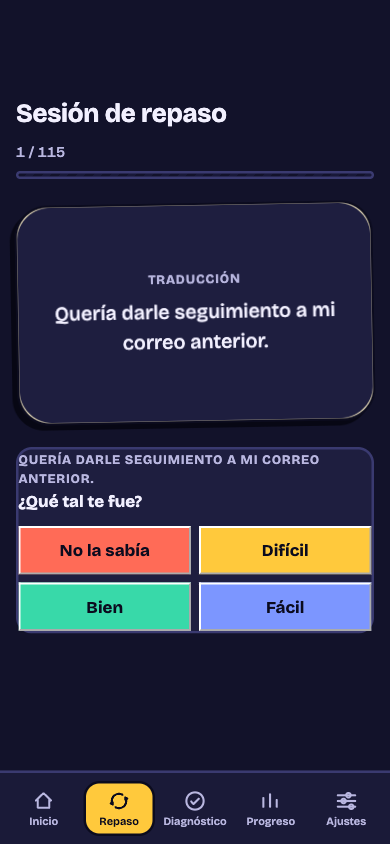
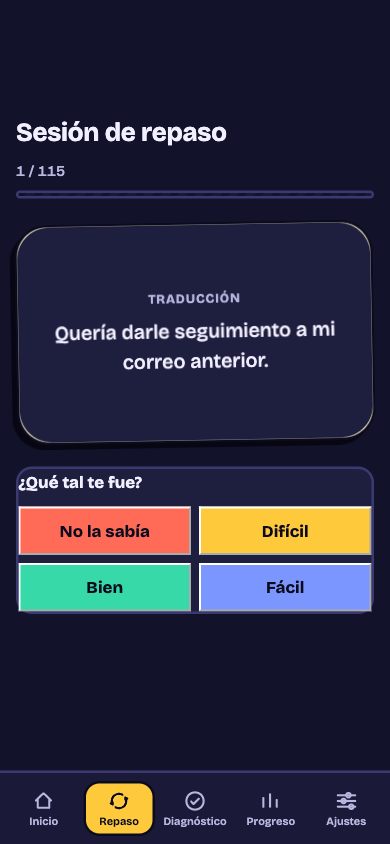
Repaso: arregla traducción duplicada al revelar la tarjeta
Al revelar, traduccionPanel.textContent se sobrescribía con tarjeta.atras --
la traducción ya se ve en la cara trasera de la tarjeta (.repaso-texto-
traduccion), así que quedaba repetida una segunda vez como texto tenue
encima de "¿Qué tal te fue?". Ese párrafo es solo el texto de ayuda antes de
revelar ("Toca la tarjeta o presiona espacio..."); ahora se oculta (hidden)
en vez de reescribirse. Verificado con una captura fresca tras forzar un
contexto de navegador nuevo (el caché de esta sesión de Playwright seguía
sirviendo JS viejo incluso con Network.setCacheDisabled + reload en la misma
pestaña; browser.newContext() sí lo evita).

diff --git a/js/screens/repaso.js b/js/screens/repaso.js
@@ -181,7 +181,10 @@
       revelado = true;
       marco.classList.add("revelada");
       panel.classList.add("visible");
-      traduccionPanel.textContent = tarjeta.atras;
+      // La traducción ya se ve en la cara trasera de la tarjeta (.repaso-texto-traduccion);
+      // este párrafo es solo el texto de ayuda antes de revelar ("Toca la tarjeta o presiona
+      // espacio..."), así que se oculta en vez de repetir la traducción una segunda vez.
+      traduccionPanel.hidden = true;
       botonesCalidad.forEach(function (boton) {
         boton.disabled = false;
       });
